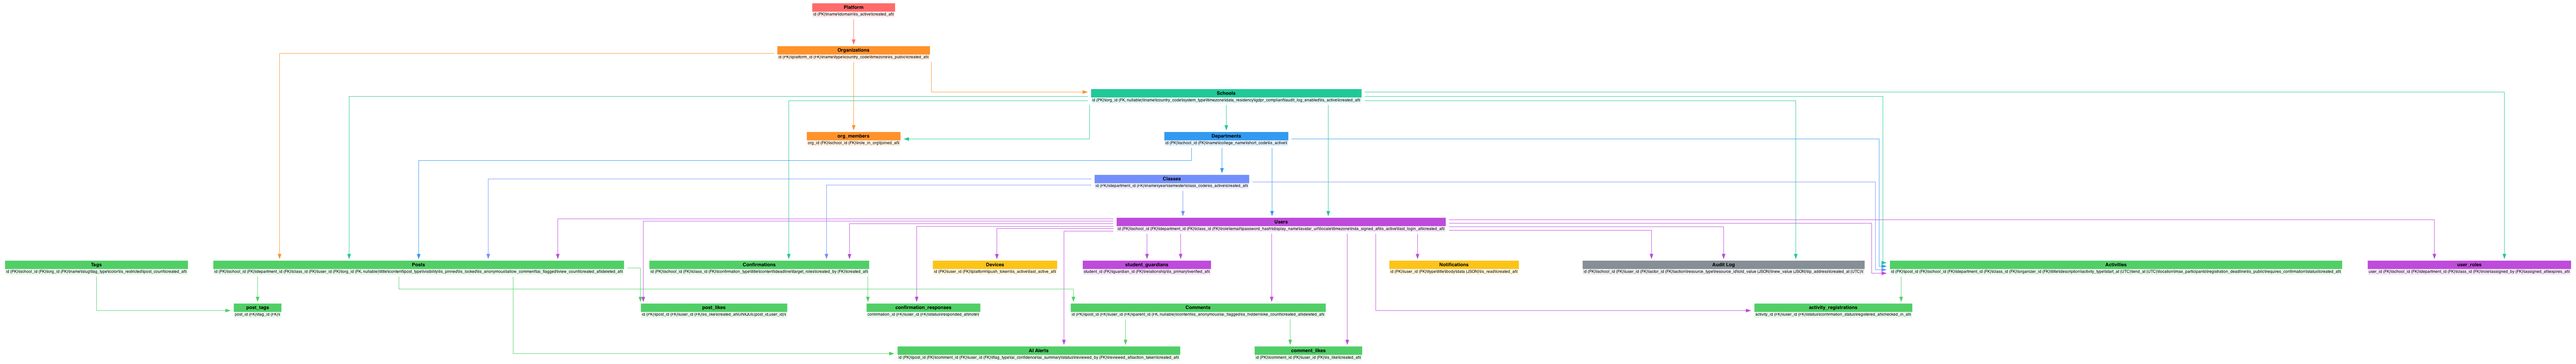
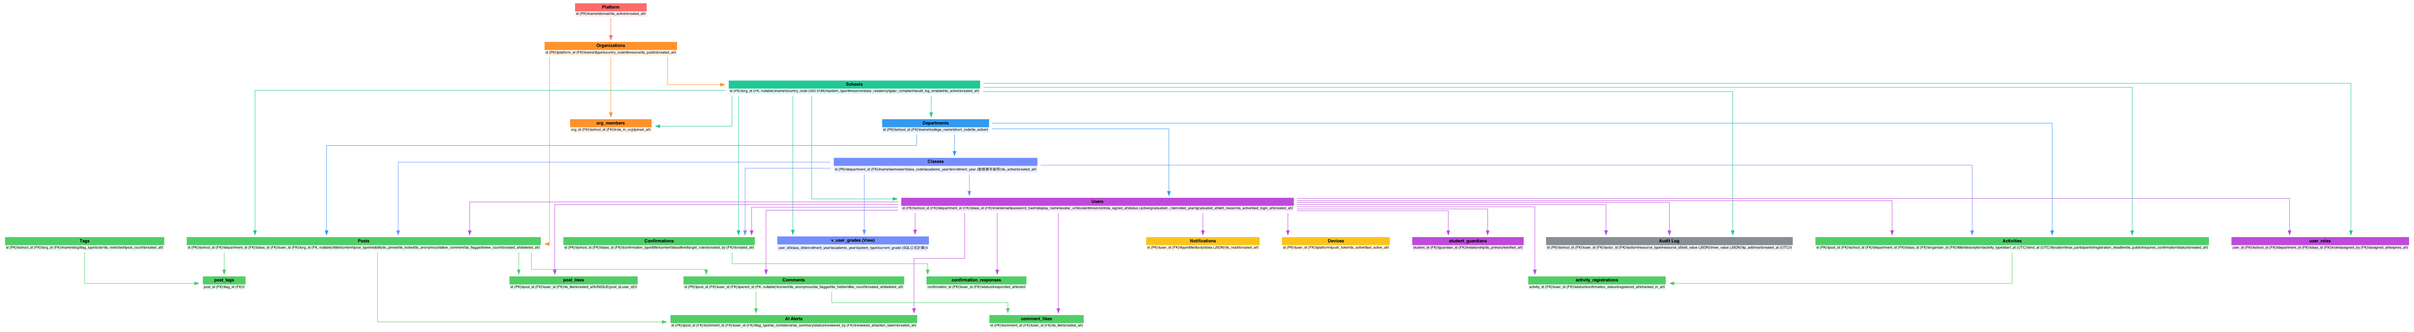
fix: dynamic grade calculation — enrollment_year replaces static year field
- classes.enrollment_year: 動態算年級，不再每年跑 script
- users.status/enrolled_year/graduated_at/left_reason: 自動畢業機制
- Added v_user_grades SQL view for grade calculation
- Regenerated ERD with updated schema
- school-structure.md updated with cron job + bulk import flow

diff --git a/docs/EduPlatform_v2/modules/school-structure.md b/docs/EduPlatform_v2/modules/school-structure.md
@@ -40,24 +40,77 @@ departments
 classes
 ├── id
 ├── department_id      FK → departments
-├── name               班級名（例：「大一不分系」）
-├── year               學年（1, 2, 3... 或 112, 113 for K12）
+├── name               班級名（例：「大一不分系」、「高三A」）
 ├── semester           '1' | '2' | 'summer'
 ├── class_code         行政代碼（例：「1A」）
-├── settings           JSON
+├── academic_year      學年度（112, 113...）
+├── enrollment_year    這屆學生入學年（用來動態算年級）
+├── settings            JSON
 └── is_active
+
+users
+├── status             'active' | 'graduated' | 'transferred' | 'suspended'
+├── enrolled_year      入學年（手動或 bulk import 填入）
+├── graduated_at       nullable
+└── left_reason        'graduated' | 'transferred' | 'dropped'
 ```
 
 ---
 
-## 常見學制與 Year 欄位
+## 學年與年級計算（動態）
 
-| 學制 | system_type | Year 意義 |
-|------|-------------|-----------|
-| 台灣 K12 | `taiwan_k12` | 年級（1-6 國小，7-9 國中，10-12 高中） |
-| 台灣大學 | `taiwan_university` | 年級（1-4 學士班，碩博 1-N） |
-| 美國 K12 | `us_k12` | Grade（K, 1-12） |
-| IB | `ib` | PYP(1-5) / MYP(6-10) / DP(11-12) |
+不再用靜態 `year` 欄位。`enrollment_year` 決定學生何時入學，`current_grade` 由 SQL 公式自動算出。
+
+### SQL 視圖：計算目前年級
+
+```sql
+CREATE VIEW v_user_grades AS
+SELECT
+  u.id AS user_id,
+  u.class_id,
+  c.enrollment_year,
+  c.academic_year,
+  s.system_type,
+  -- 大學：YEAR(NOW()) - enrollment_year + 1
+  -- K12 小一入學年齡約 7 歲
+  CASE
+    WHEN s.system_type = 'taiwan_university'
+      THEN YEAR(CURDATE()) - c.enrollment_year + 1
+    WHEN s.system_type = 'taiwan_k12'
+      THEN YEAR(CURDATE()) - c.enrollment_year + 7  -- 小一入學年 = 今年 - (現在年級-1)
+    WHEN s.system_type = 'us_k12'
+      THEN YEAR(CURDATE()) - c.enrollment_year + 5   -- Kindergarten = 5歲
+    ELSE NULL
+  END AS current_grade
+FROM users u
+JOIN classes c ON u.class_id = c.id
+JOIN schools s ON u.school_id = s.id
+WHERE u.status = 'active';
+```
+
+### 每年自動畢業（Cron Job）
+
+```javascript
+// 每學年 6/30 執行：把狀態改為 graduated
+// 這次之後使用者不再是 active，但所有歷史 record 都保留
+cron('0 0 30 6 *', async () => {
+  await db.query(`
+    UPDATE users
+    SET status = 'graduated', graduated_at = NOW()
+    WHERE class_id IN (
+      SELECT id FROM classes WHERE academic_year = ?
+    )
+    AND status = 'active'
+  `, [currentAcademicYear]);
+});
+```
+
+### 新生入學流程
+
+1. School_Admin 在後台 bulk import CSV（學號、姓名、班級）
+2. `enrolled_year = 當年學年度`（自動帶入）
+3. `current_grade = 1`（由公式計算）
+4. 不用任何 script
 
 ---
 
